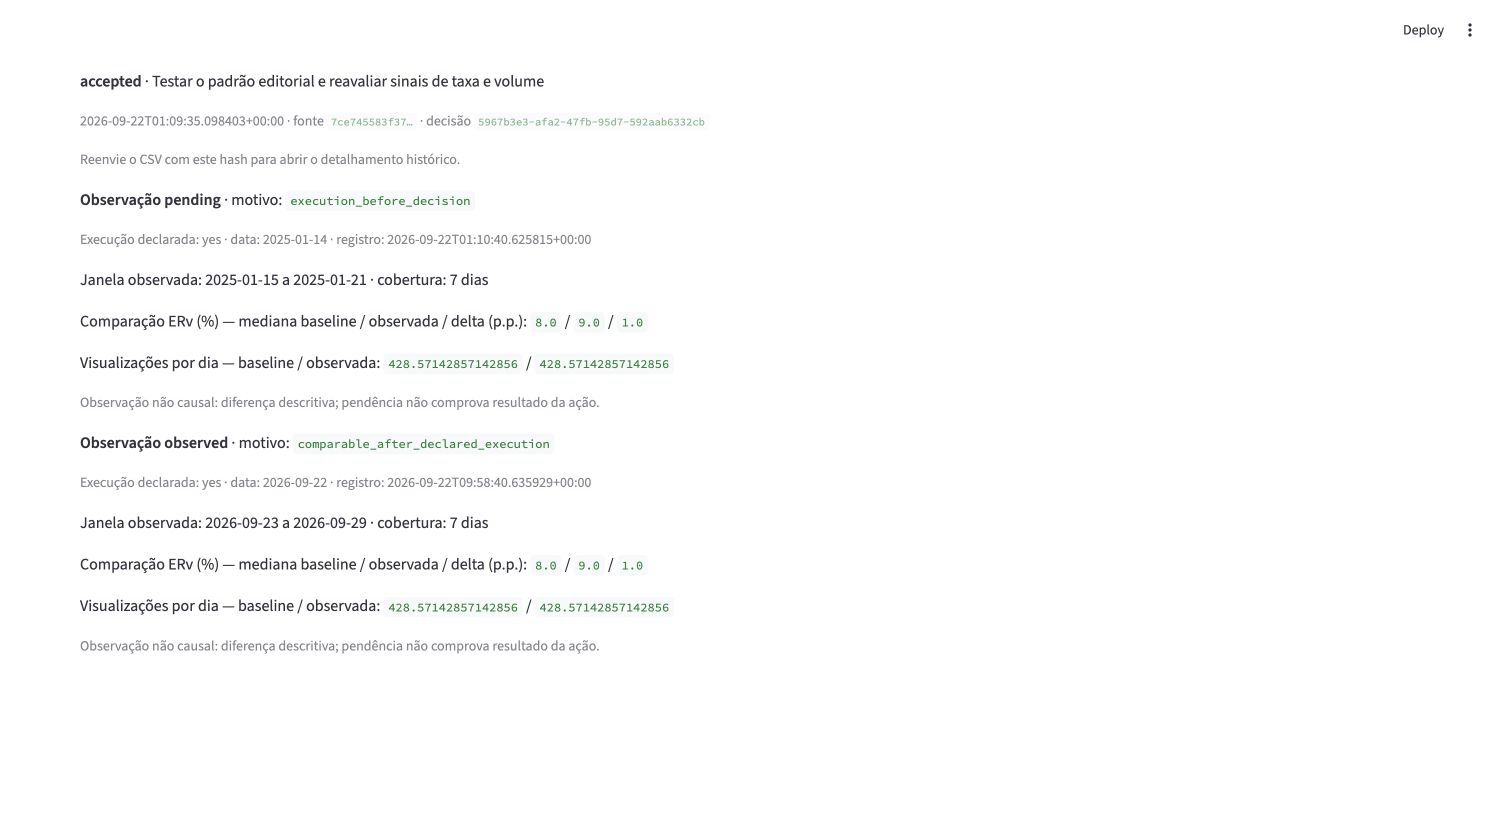
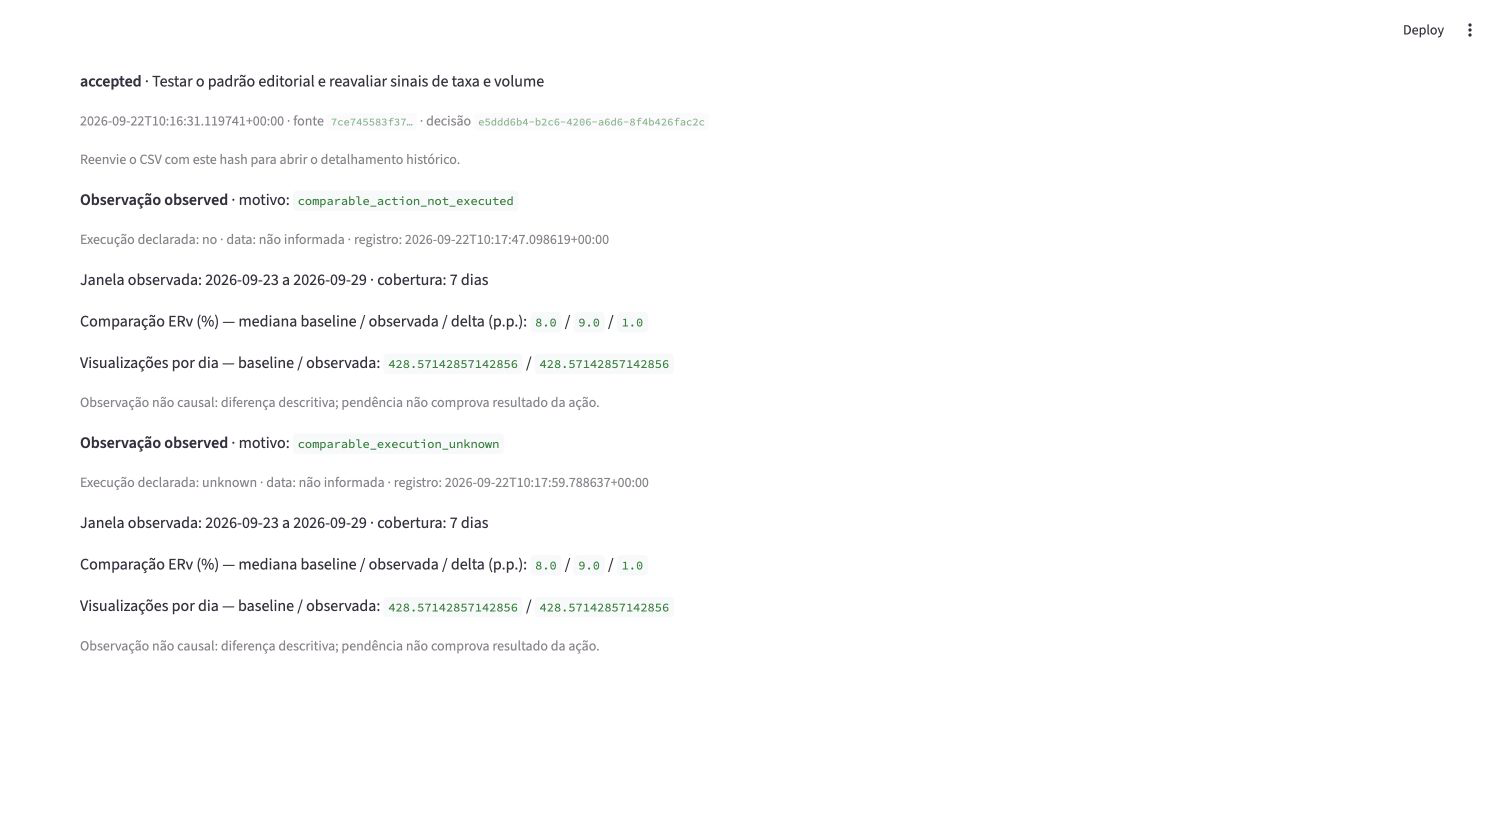
docs(004): refresh acceptance for state semantics

diff --git a/submissions/luis-roquette/process-log/004-social.md b/submissions/luis-roquette/process-log/004-social.md
@@ -485,6 +485,7 @@ Este ledger registra todas as perguntas, respostas, correções e decisões da d
 - **A4 e exports:** Chrome imprimiu o resumo em uma página A4 (594,96 × 841,92 pt); causalidade, ausência de ROI e necessidade de custos reais permanecem visíveis. Os testes reconciliam IDs, ordem, componentes, referências e neutralização de fórmulas/controles.
[3 lines of base64/hex data omitted]
 - **Handoff honesto:** automação não é um Gestor de Social Media. HR-01 continua pendente até um operador humano executar upload → explicação → decisão em até cinco minutos. O pacote está tecnicamente reproduzível, mas a Definition of Done integral permanece aberta por esse único gate humano.
 
 ### Matriz de aceitação final
@@ -498,13 +499,13 @@ Este ledger registra todas as perguntas, respostas, correções e decisões da d
 | CK-05 | pass | dimensões, audiência, tempo e falhas em relatório/UI |
 | CK-06 | pass | prioridade recomposta e ordem estável em `test_acceptance.py` |
 | CK-07 | pass | esforço, público, frequência, patrocínio, creators, interrupção e quick wins em `analysis.md` |
-| CK-08 | pass | decisões, revisões vinculadas, idempotência e reinício em `test_storage.py`/`test_app.py`; I28 |
-| CK-09 | pass | guards temporais, execução humana, outcome persistido e pendência em `test_storage.py`; I28 |
+| CK-08 | pass | estados de decisão/revisão preservam o texto correto, idempotência e reinício em `test_storage.py`/`test_app.py`; I28 e I31 |
+| CK-09 | pass | guards temporais, execução humana e outcomes persistidos distinguem ação não executada de execução desconhecida; I28 e I31 |
 | CK-10 | pass | HTML A4 de uma página, CSV reconciliado e downloads no navegador |
-| CK-11 | pass | app local/teclado, sem conta, API ou ação automática; I26–I28 |
+| CK-11 | pass | app local/teclado, sem conta, API ou ação automática; I26–I31 |
 | HR-01 | **pending** | exige Gestor de Social Media humano cronometrado |
 | HR-02 | pass | `analysis.md` legível sem dashboard e ligado a `evidence.csv` |
-| HR-03 | pass | I01–I30 preservam pesquisa, 24 ondas, decisões, erros e correções |
+| HR-03 | pass | I01–I31 preservam pesquisa, 24 ondas, decisões, erros e correções |
 | HR-04 | pass | setup, screenshot e auditoria Git final restritos à submissão |
 
 ### Rubricas finais

diff --git a/submissions/luis-roquette/README.md b/submissions/luis-roquette/README.md
@@ -32,7 +32,7 @@ Analisei 52.214 posts de cinco plataformas e construí um cockpit local para con
 - Maior associação patrocinada observada: YouTube / mixed / beauty / 500.000+, +0,212889 p.p. de ERv; menor: TikTok / video / lifestyle / 10.000–49.999, −0,262464 p.p. Nenhuma é efeito causal ou ROI.
 - O cockpit mantém posts zero/taxas indefinidas, explica benchmark/amostra/força até as linhas de origem, registra aceitar/rejeitar/editar, vincula revisões e preserva outcomes após reinício; cronologia inválida permanece pendente.
 
-![Cockpit com CSV real e prioridades](./process-log/evidence/004/cockpit-proof.png)
+![Histórico do cockpit após reinício, com outcomes distintos para ação não executada e execução não informada](./process-log/evidence/004/cockpit-proof.png)
 
 ### Recomendações
 
@@ -61,7 +61,7 @@ Analisei 52.214 posts de cinco plataformas e construí um cockpit local para con
 | Codex | Pesquisa, ondas socráticas, SDD, implementação, regressões, documentação e auditoria final |
 | Claude Code | Skill SDD e estruturação inicial dos artefatos de especificação |
 | Chrome automatizado | Validação do upload real, decisões, reinício, erros, downloads e prova visual |
-| Python/Pandas/unittest | Motor determinístico, reconciliação e 52 testes locais |
+| Python/Pandas/unittest | Motor determinístico, reconciliação e 62 testes locais |
 
 ### Workflow
 

diff --git a/submissions/luis-roquette/solution/004-social/README.md b/submissions/luis-roquette/solution/004-social/README.md
@@ -4,7 +4,7 @@ Aplicação local que valida o CSV do desafio, produz análise contextual reprod
 
 ## Instalação
 
-Requisitos testados em 21/09/2026: Python 3.14.2, Streamlit 1.64.0, Pandas 2.3.3 e SQLite 3.50.4.
+Requisitos testados em 22/09/2026: Python 3.14.2, Streamlit 1.64.0, Pandas 2.3.3 e SQLite 3.50.4.
 
 ```bash
 python3 -m venv .venv
@@ -33,7 +33,7 @@ python submissions/luis-roquette/solution/004-social/analysis.py \
   --report /tmp/analysis.md
 ```
 
-Após a correção documentada em I28, o gate limpo aprovou 58/58 testes em 9,243 s (9,81 s totais), com warnings tratados como erros. A CLI processou as 52.214 linhas em 16,69 s, com pico residente de 557.023.232 bytes e zero swap; os arquivos gerados foram idênticos aos artefatos publicados.
+Após as correções documentadas até I31, o gate limpo aprovou 62/62 testes em 17,407 s (18,27 s totais), com warnings tratados como erros. A CLI processou as 52.214 linhas em 23,08 s, com pico residente de 558.514.176 bytes e zero swap; CSV e Markdown foram idênticos byte a byte aos artefatos publicados. O resumo impresso permaneceu em uma página A4.
 
 ## Executar o cockpit
 
